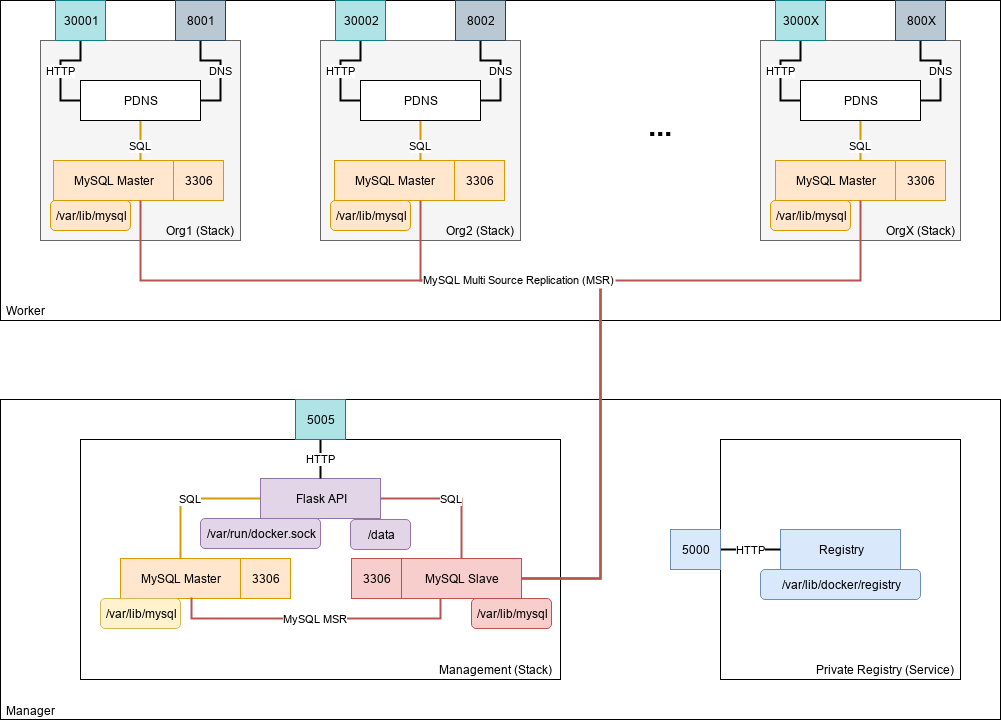
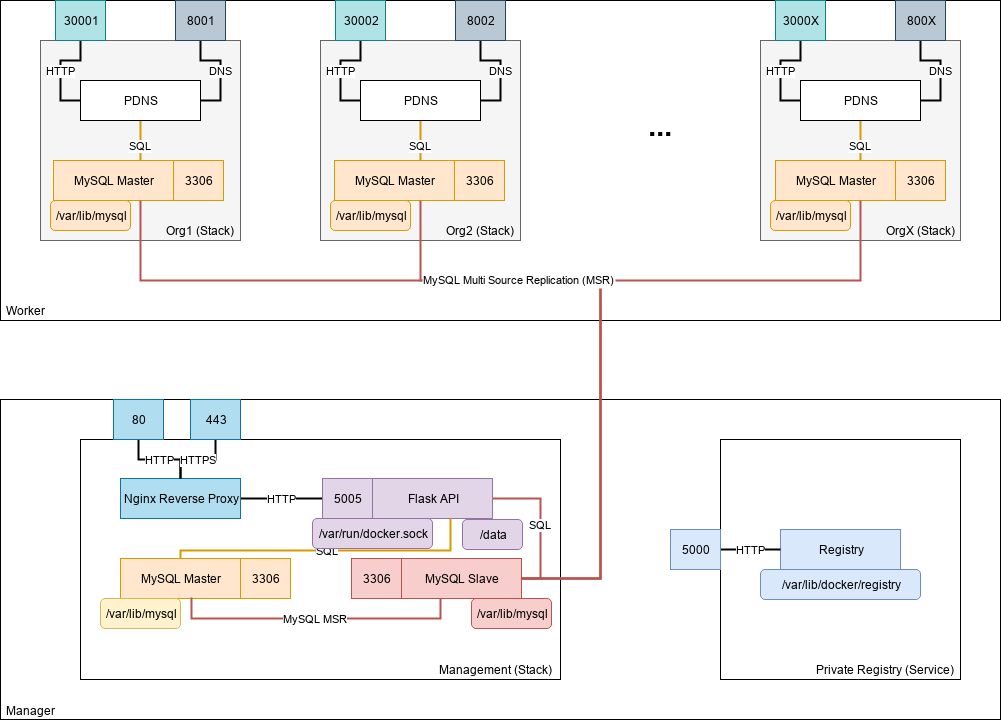
Add Nginx Proxy in design and update Readme

Changed region(s): [[0.0929, 0.5492, 0.5574, 0.7933]]

diff --git a/03-swarm/stack/README.md b/03-swarm/stack/README.md
@@ -21,9 +21,10 @@ The `stack` folder is used by the `stack_api` to deploy AFRINIC member DNSSEC si
 
 
 ### Access ###
-* Management API **http**: the API is listening on port `5005`. The local registry is listening on port `5000`.
+* ~~Management API **http**: the API is listening on port `5005`~~Management API **http**: the API is listening on port `443`. The local registry is listening on port `5000`.
 * Signer Stack API **http**: each member signer (PowerDNS) API will use a dedicated port starting `30000`.
 * **dns**: each member signer will use a dedicated port starting `8000`.
+
 
 | Action                             | HTTP Verb           | Parameters            | Required authentication | Url                                   | Result                                   | 
 |------------------------------------|:-------------------:|-----------------------|-------------------------|---------------------------------------|------------------------------------------|
@@ -34,7 +35,7 @@ The `stack` folder is used by the `stack_api` to deploy AFRINIC member DNSSEC si
 | Get metadata on a member stack     | ``POST``            | Member Stack Name     | X-Auth-Token: TOKEN     | /stack/info/{member_stack_id}         | Member Stack metadata                    |
 | Remove member stack                | ``POST``            | Member Stack Name     | X-Auth-Token: TOKEN     | /stack/remove/{member_stack_id}       |  Removed **Member Stack Name**           |
 
-All paths are relative to ``http://<swarm_manager_ip_or_fqdn>:5005/api/v1``.
+All paths are relative to ~~``http://<swarm_manager_ip_or_fqdn>:5005/api/v1``~~``http://<swarm_manager_ip_or_fqdn>/api/v1``.
 ### Mini documentation ###
 1. Add vault password in file
 ```
@@ -90,6 +91,7 @@ API_BASE=/api/v1
 TOKEN=<random_string>
 
 APP_ENV=Prod
+WORKER_NODE=<swarm_manager_ip_or_fqdn>
 ```
 Variables starting by **MYSQL_** are related to MySQL master instance. Note that MySQL port `3306` is not open to external.
 
@@ -113,6 +115,8 @@ The API base url is dedinied in **API_BASE**. This base url can be changed which
 **TOKEN** is the HTTP authentication header to protect access to the `stack_api`.
 
 **APP_ENV** is related to Flask deployment mode.
+
+**WORKER_NODE** is used to set PDNS host.
 
 5. Update environment variables in management for MySQL replication
 ```
@@ -138,7 +142,7 @@ ansible-playbook stack.yml
 ```
 7. Test if docker client it running
 ```
-curl -X POST -H 'X-Auth-Token: TOKEN'  http://<swarm_manager_ip_or_fqdn>:5005/api/v1/docker | jq .
+curl -s -k -L  -X POST -H 'X-Auth-Token: TOKEN'  http://<swarm_manager_ip_or_fqdn>/api/v1/docker
 
 {
   "error": null,
@@ -149,7 +153,7 @@ curl -X POST -H 'X-Auth-Token: TOKEN'  http://<swarm_manager_ip_or_fqdn>:5005/ap
 ```
 8. Test `stack_api`
 ```
-curl -X POST -H 'X-Auth-Token: TOKEN'  http://<swarm_manager_ip_or_fqdn>:5005/api/v1/stack | jq .
+curl -s -k -L  -X POST -H 'X-Auth-Token: TOKEN'  http://<swarm_manager_ip_or_fqdn>/api/v1/stack
 
 {
   "error": null,
@@ -162,7 +166,7 @@ curl -X POST -H 'X-Auth-Token: TOKEN'  http://<swarm_manager_ip_or_fqdn>:5005/ap
 ```
 9. You can then, create a deployment for AFRINIC member
 ```
-curl -X POST -H 'X-Auth-Token: TOKEN'  http://<swarm_manager_ip_or_fqdn>:5005/api/v1/stack/deploy/ORG-AFNC1-AFRINIC | jq .
+curl -s -k -L -X POST -H 'X-Auth-Token: TOKEN'  http://<swarm_manager_ip_or_fqdn>/api/v1/stack/deploy/ORG-AFNC1-AFRINIC
 
 {
   "error": null,
@@ -171,13 +175,13 @@ curl -X POST -H 'X-Auth-Token: TOKEN'  http://<swarm_manager_ip_or_fqdn>:5005/ap
     "api_port": 30001,
     "dns_port": 8001,
     "stack": "ORG-AFNC1-AFRINIC_S1",
-    "url": "curl -v -H 'X-API-Key: Unjrbbji6howwDU' http://HOST:30001/api/v1/servers/localhost"
+    "url": "curl -v -H 'X-API-Key: Unjrbbji6howwDU' http://<swarm_manager_ip_or_fqdn>:30001/api/v1/servers/localhost"
   },
   "status": "OK"
 }
 
 
-curl -X POST -H 'X-Auth-Token: TOKEN'  http://<swarm_manager_ip_or_fqdn>:5005/api/v1/stack/deploy/ORG-AFNC1-AFRINIC | jq .
+curl -s -k -L -X POST -H 'X-Auth-Token: TOKEN'  http://<swarm_manager_ip_or_fqdn>/api/v1/stack/deploy/ORG-AFNC1-AFRINIC
 
 {
   "error": "Existing",
@@ -188,7 +192,7 @@ curl -X POST -H 'X-Auth-Token: TOKEN'  http://<swarm_manager_ip_or_fqdn>:5005/ap
 ```
 10. List of stack deployed in the swarm
 ```
-curl -X POST -H 'X-Auth-Token: TOKEN'  http://<swarm_manager_ip_or_fqdn>:5005/api/v1/stack | jq .
+curl -s -k -L -X POST -H 'X-Auth-Token: TOKEN'  http://<swarm_manager_ip_or_fqdn>/api/v1/stack
 
 {
   "error": null,
@@ -200,11 +204,11 @@ curl -X POST -H 'X-Auth-Token: TOKEN'  http://<swarm_manager_ip_or_fqdn>:5005/ap
 }
 
 ```
-We have the default `stack_api` with `3` services (MySQL master, MySQL slave and Flask API) and the new deployed customer stack `ORG-AFNC1-AFRINIC_S1` with `2` services (MySQL master and PowerDNS).
+We have the default `stack_api` with ~~`3`~~`4` services (MySQL master, MySQL slave ~~and~~, Flask API, Nginx Reverse proxy) and the new deployed customer stack `ORG-AFNC1-AFRINIC_S1` with `2` services (MySQL master and PowerDNS).
 
 11. Get information on a AFRINIC member stack using the stack name
 ```
-curl -X POST -H 'X-Auth-Token: TOKEN'  http://<swarm_manager_ip_or_fqdn>:5005/api/v1/stack/info/ORG-AFNC1-AFRINIC_S1 | jq .
+curl -s -k -L  -X POST -H 'X-Auth-Token: TOKEN'  http://<swarm_manager_ip_or_fqdn>/api/v1/stack/info/ORG-AFNC1-AFRINIC_S1
 
 {
   "error": null,
@@ -213,7 +217,7 @@ curl -X POST -H 'X-Auth-Token: TOKEN'  http://<swarm_manager_ip_or_fqdn>:5005/ap
     "api_port": 30001,
     "dns_port": 8001,
     "stack": "ORG-AFNC1-AFRINIC_S1",
-    "url": "curl -v -H 'X-API-Key: Unjrbbji6howwDU' http://HOST:30001/api/v1/servers/localhost"
+    "url": "curl -v -H 'X-API-Key: Unjrbbji6howwDU' http://<swarm_manager_ip_or_fqdn>:30001/api/v1/servers/localhost"
   },
   "status": "OK"
 }
@@ -221,7 +225,7 @@ curl -X POST -H 'X-Auth-Token: TOKEN'  http://<swarm_manager_ip_or_fqdn>:5005/ap
 ```
 12. Check if PowerDNS API is running
 ```
-curl -H 'X-API-Key: Unjrbbji6howwDU' http://<swarm_manager_ip_or_fqdn>:30001/api/v1/servers/localhost | jq .
+curl -s -k -L -H 'X-API-Key: Unjrbbji6howwDU' http://<swarm_manager_ip_or_fqdn>:30001/api/v1/servers/localhost
 
 {
   "config_url": "/api/v1/servers/localhost/config{/config_setting}",
@@ -236,7 +240,7 @@ curl -H 'X-API-Key: Unjrbbji6howwDU' http://<swarm_manager_ip_or_fqdn>:30001/api
 ```
 13. Remove a stack from the swarm
 ```
-curl -X POST -H 'X-Auth-Token: TOKEN'  http://<swarm_manager_ip_or_fqdn>:5005/api/v1/stack/remove/ORG-AFNC1-AFRINIC_S1 | jq .
+curl -s -k -L -X POST -H 'X-Auth-Token: TOKEN'  http://<swarm_manager_ip_or_fqdn>/api/v1/stack/remove/ORG-AFNC1-AFRINIC_S1
 
 {
   "error": null,
@@ -244,7 +248,7 @@ curl -X POST -H 'X-Auth-Token: TOKEN'  http://<swarm_manager_ip_or_fqdn>:5005/ap
   "status": "OK"
 }
 
-curl -X POST -H 'X-Auth-Token: TOKEN'  http://<swarm_manager_ip_or_fqdn>:5005/api/v1/stack/remove/ORG-AFNC1-AFRINIC_S1 | jq .
+curl -s -k -L -X POST -H 'X-Auth-Token: TOKEN'  http://<swarm_manager_ip_or_fqdn>/api/v1/stack/remove/ORG-AFNC1-AFRINIC_S1
 
 {
   "error": "NoStack",
